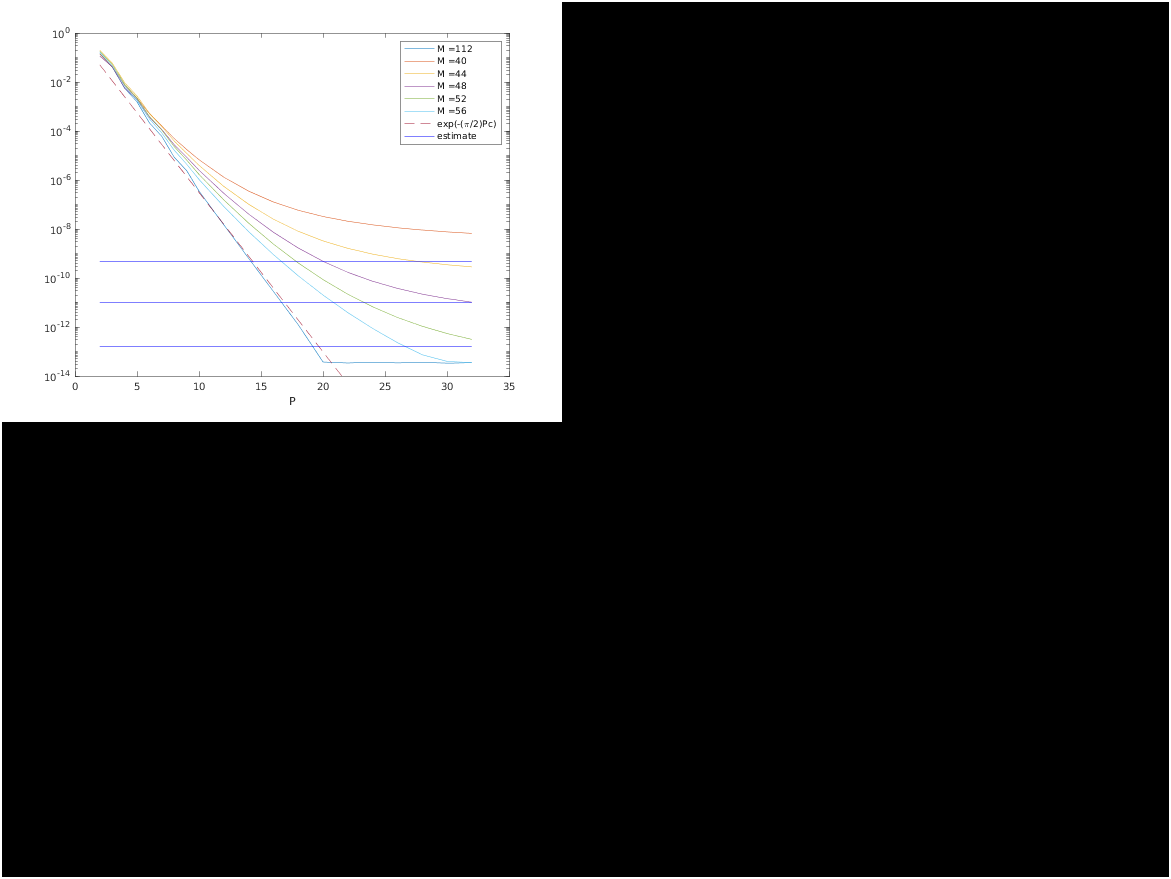
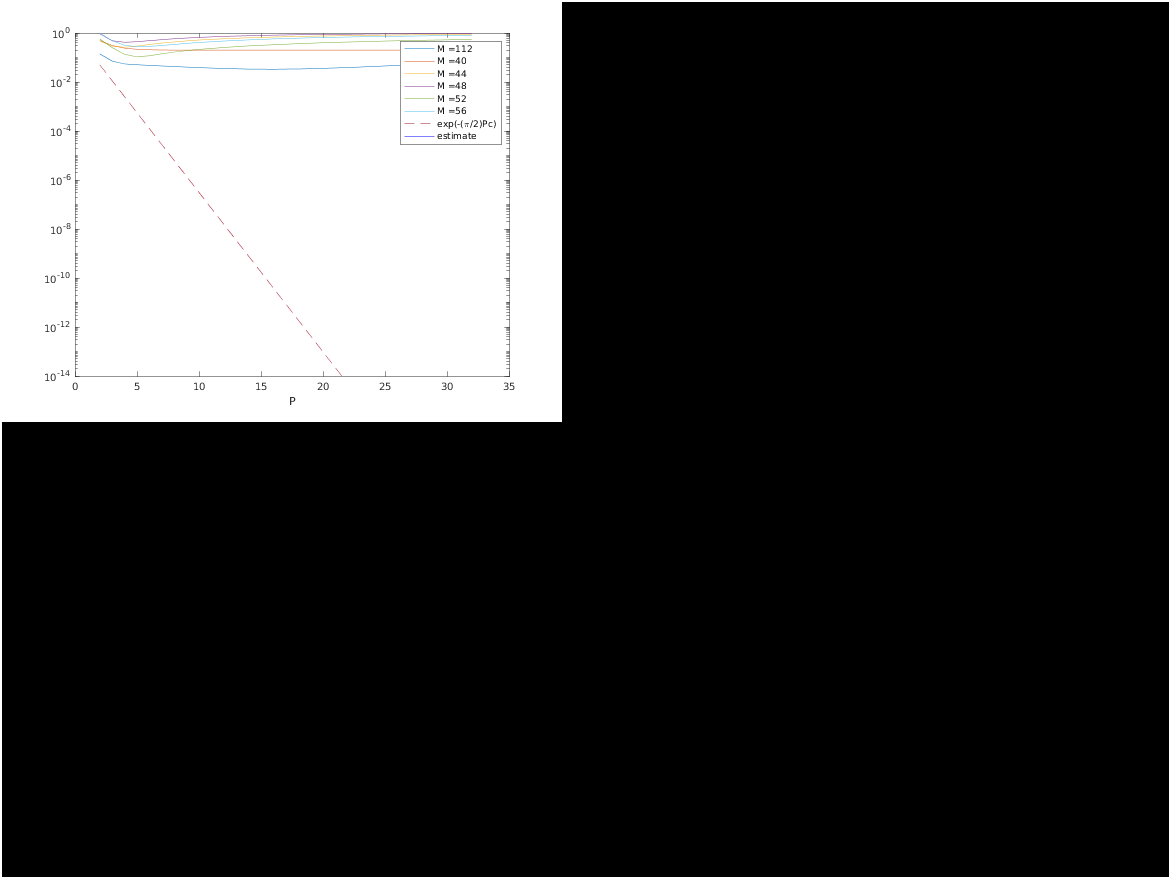
imgs

diff --git a/SE_Stokes_run/SE3P_Stokes/P_error.m b/SE_Stokes_run/SE3P_Stokes/P_error.m
@@ -8,7 +8,7 @@ N = 10; % number of source particles
 
 
 %% Parameter selection
-L = 1; % box side length
+L = 0.1; % box side length
 box = [L L L]; % periodic box
 opt.box = box;
 
@@ -17,7 +17,7 @@ opt.box = box;
 
 M0 = 128; % Set M0=M/L, the restu * 1+ is automatic
 opt.M = M0*opt.box;
-opt.xi = 15;
+opt.xi = 50;
 opt.betaP = 2.5;
 opt.c = sqrt(0.91);
 %opt.window = 'kaiser_exact';
